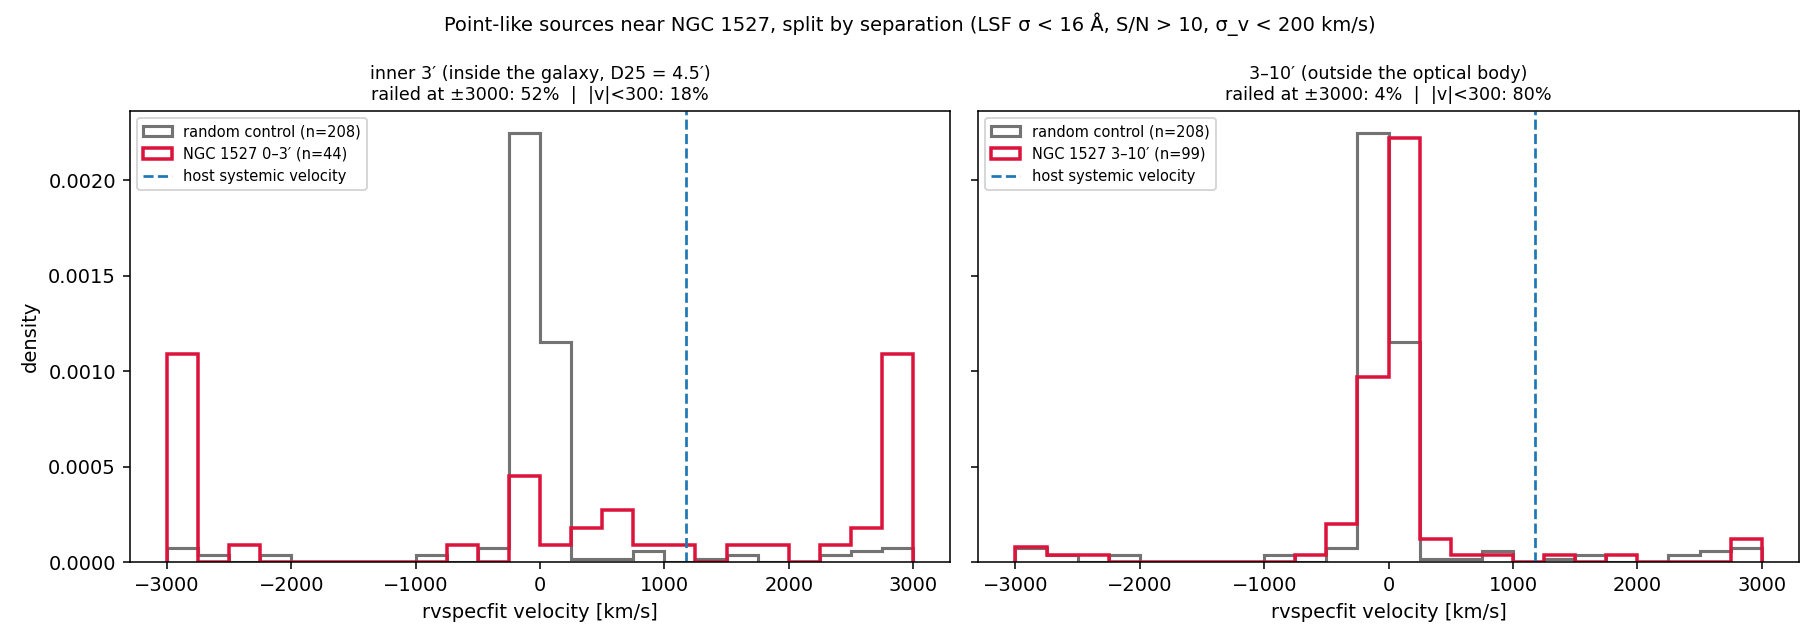
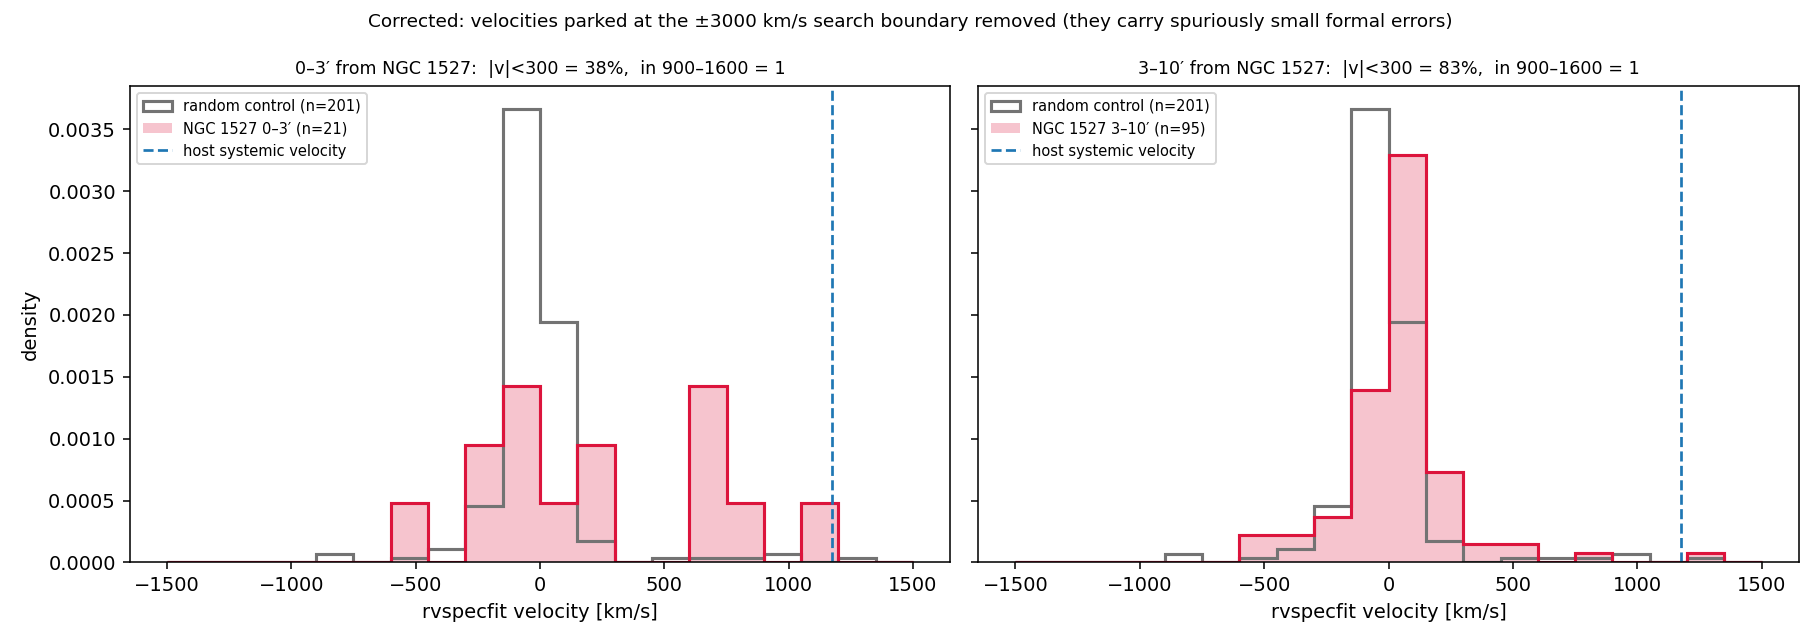
Correct the GC analysis: exclude railed fits (spuriously small errors); test and reject the centroid-shift hypothesis

diff --git a/JOURNAL.md b/JOURNAL.md
@@ -2065,3 +2065,41 @@ Caveat on the control: 178 of its 208 objects are an EDF-N field at b = +31°,
 against b = −47° for NGC 1527; the same-region control (tile 102021017,
 b = −46°) gives 96 % within ±300 km/s from 28 objects.
 `plots/ngc1527_velocity_by_radius.png`.
+
+### Correction: the formal-error cut admitted railed fits
+
+rvspecfit reports a *small* formal error for velocities parked at the search
+boundary — 23 of the 54 railed inner-region fits passed σ_v < 200 km/s, one
+with σ_v = 0.0 km/s at v = −3000.  Honest non-railed fits have a median error
+of 820 km/s, so the cut preferentially selected junk.  Re-analysed requiring
+|v| < 2900 as well:
+
+| sample | n | \|v\| < 300 | in 900–1600 km/s |
+|---|---:|---:|---:|
+| NGC 1527, 0–3′ | 21 | 38 % | 1 (4.8 %) |
+| NGC 1527, 3–10′ | 95 | **83 %** | 1 (1.1 %) |
+| control | 201 | 88 % | 3 (1.5 %) |
+
+The earlier 61 % vs 85 % comparison was distorted by railed junk: outside the
+optical body the field is statistically identical to a blank field (83 % vs
+88 %).  The non-detection stands and is now on honest numbers (1/95 vs 3/201,
+Fisher p = 1.00).
+
+**Why the inner spectra fail is *not* a wavelength-scale error.**  In slitless
+spectroscopy wavelength is set by source position — one NISP pixel = 13.4 Å =
+259 km/s = 0.30″, so a 1″ centroid error would be 863 km/s.  Tested directly:
+velocity versus offset from the galaxy centre gives r = +0.10 (dx) and +0.16
+(dy) with a slope of +2 km/s per arcsec, and the railed objects split evenly
+between +3000 and −3000 on both sides.  There is no coherent positional shift
+— expected, since the four dithers use different grism orientations, so a
+positional offset produces different shifts per dither that average out.  The
+inner spectra are *incoherently* contaminated: the absorption features that
+carry velocity are destroyed, the fit is unconstrained, and it rails.  Nothing
+is measured, rather than something measured wrongly.
+
+**Power of the experiment, stated plainly**: ~3 GCs brighter than M_V = −10.5
+are expected among the 95 clean-zone objects (3 %), against a 1.5 % control
+rate in the same velocity window — ≈ 1.4 expected background events.  Even a
+perfect measurement of all three clusters would give Poisson p ≈ 0.2.  The
+test could not have succeeded; that is a statement about Q1 depth and GC
+luminosity functions, not about the pipeline.
